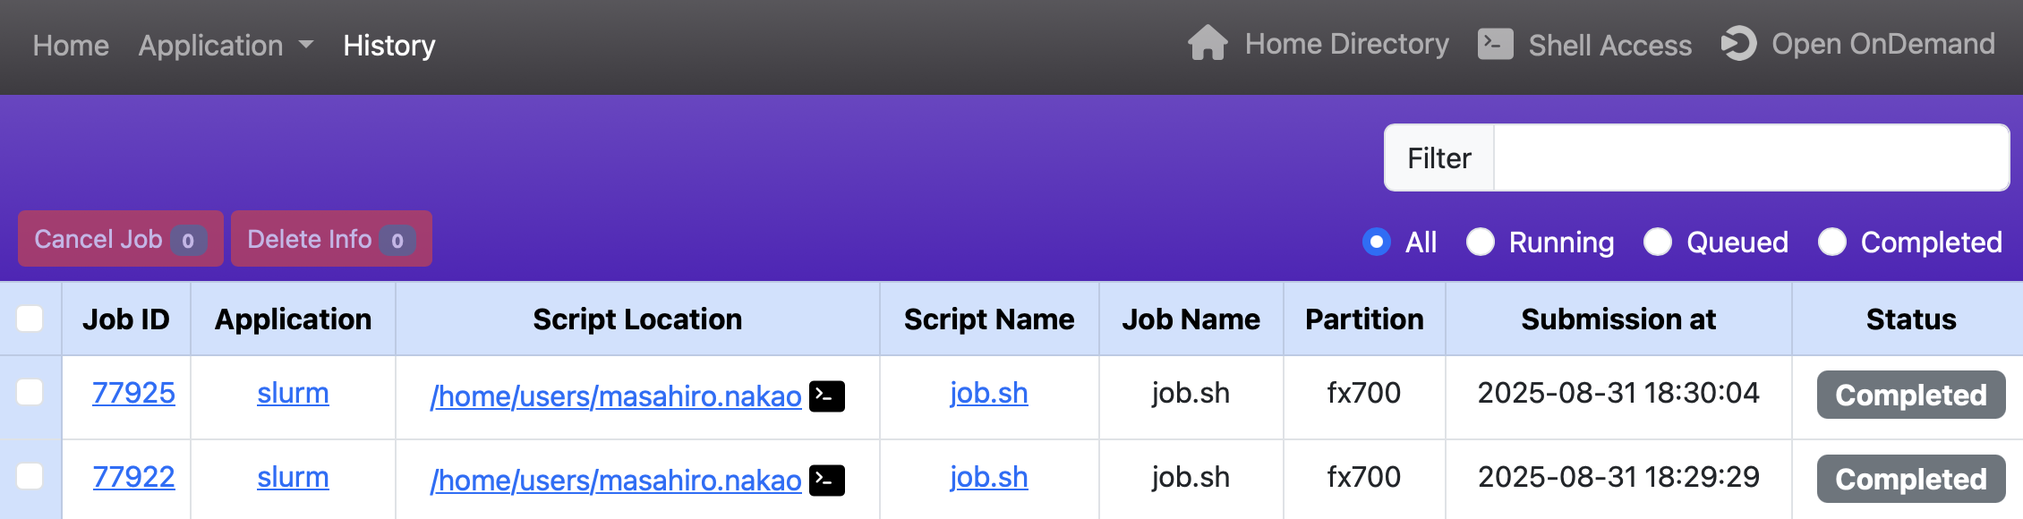
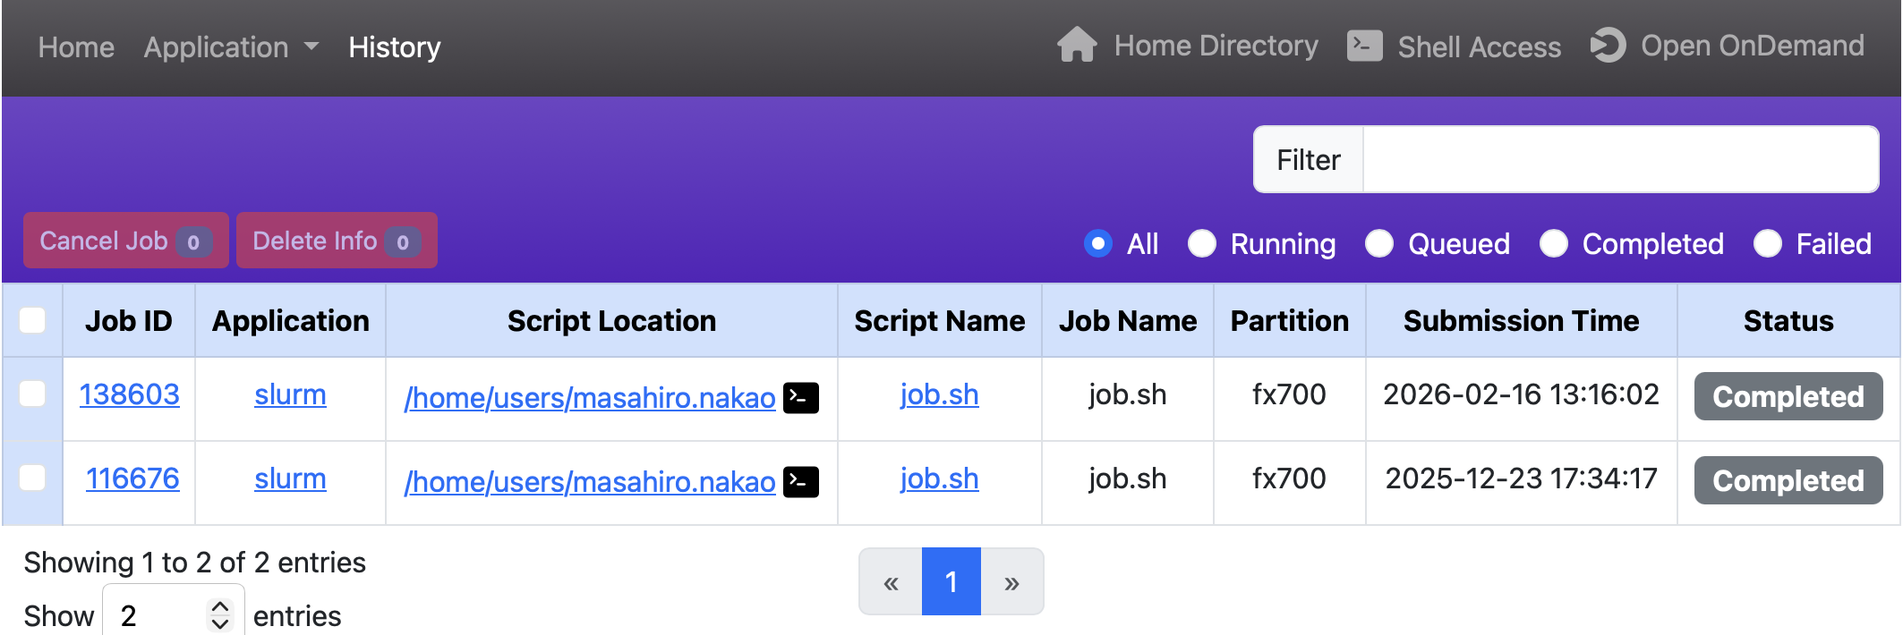
Edit manuals to descirbe Passenger Apps

diff --git a/docs/ood_ja.html b/docs/ood_ja.html
@@ -65,58 +65,43 @@
 	<tr><td><a target="_blank" rel="noopener noreferrer" href="http://www.xcrysden.org/">XCrySDen</a></td><td>結晶構造や分子構造などの可視化プログラム</td></tr>
       </table>
       <p>
-        例として、リモートデスクトップの利用方法を説明します。メニューバーの「Interactive Apps」から「Desktop」をクリックすると、計算リソースなどを入力するためのWebフォームが表示されます。入力後に「Launch」をクリックすると、R-CCSクラウドにジョブが投入されます。
+        例として、Desktopの利用方法を説明します。メニューバーの「Interactive Apps」から「Desktop」をクリックすると、計算リソースなどを入力するためのWebフォームが表示されます。入力後に「Launch」をクリックすると、R-CCSクラウドにジョブが投入されます。
       </p>
       <img width="400" alt="Webform of Remote Desktop" src="img/remote_desktop_webform.png">
       <p>
-        ジョブ投入直後は、右上に「Queued」と記述された画面が表示されます。これは、ジョブは実行待ちであることを表しています。ジョブが計算ノードで起動すると「Running」という表示に変わり、「Launch Desktop」というボタンが表示されます。「Commpression（圧縮レベル）と「Image Quality（画質レベル）」に適当な値を設定して、「Launch Desktop」のボタンをクリックすると、リモートデスクトップがWebブラウザに表示されます。
+        ジョブ投入直後は、右上に「Queued」と記述された画面が表示されます。これは、ジョブは実行待ちであることを表しています。ジョブが計算ノードで起動すると「Running」という表示に変わり、「Launch Desktop」というボタンが表示されます。「Commpression（圧縮レベル）と「Image Quality（画質レベル）」に適当な値を設定して、「Launch Desktop」のボタンをクリックすると、DesktopがWebブラウザに表示されます。
       </p>
-      <p>「View Only (Share-able Link) 」ボタンをクリックすると、ミラーリングされたリモートデスクトップが新しいタブで開きます。ミラーリングされた画面は操作できません。このタブのURLをメール等で送信することで、画面共有を行うことができます（R-CCSクラウドにアカウントを持っているユーザ間でのみ画面共有が可能です）。
+      <p>「View Only (Share-able Link) 」ボタンをクリックすると、ミラーリングされたDesktopが新しいタブで開きます。ミラーリングされた画面は操作できません。このタブのURLをメール等で送信することで、画面共有を行うことができます（R-CCSクラウドにアカウントを持っているユーザ間でのみ画面共有が可能です）。
       </p>
       <img width="600" alt="Running Status" src="img/remote_desktop_running.png"><p></p>
       <img width="600" alt="Remote Desktop" src="img/remote_desktop.png">
-      <p>リモートデスクトップを終了させたい場合は、下記の手順のどれかを行ってください。Webブラウザを閉じるだけでは終了されないことに注意してください。</p>
+      <p>Desktopを終了させたい場合は、下記の手順のどれかを行ってください。Webブラウザを閉じるだけでは終了されないことに注意してください。</p>
       <ul>
         <li>2つ前の画像の「Delete」ボタンをクリックする。</li>
         <li>メニューバーの「My Interactive Sessions」をクリックし、該当のジョブの「Delete」ボタンをクリックする。</li>
-        <li>リモートデスクトップの左上の「Applications」から「Log Out」をクリックする。</li>
+        <li>Desktopの左上の「Applications」から「Log Out」をクリックする。</li>
       </ul>
 
-      <h3>4.2. バッチジョブ</h3>
+      <h3>4.2. Passengerアプリケーション</h3>
       <p>
-        バッチジョブとは、ジョブスケジューラによって非対話的に実行される計算タスクのことです。バッチジョブはシェルスクリプトで記述され、必要な計算資源（たとえばノード数や最大実行時間など）は、ジョブスケジューラのディレクティブ（例：<code>#SBATCH -N 4</code>）を用いて指定します。R-CCSクラウドOpen OnDemandでは、Open OnDemand上で動作するアプリケーションである<a target="_blank" href="https://github.com/RIKEN-RCCS/OpenComposer/">Open Composer</a>を利用しており、簡易にバッチジョブの投入と管理を行うことができます。
+	Passengerアプリケーションとは、Open OnDemandサーバで動作するアプリケーションです。下記のアプリケーションを提供しています。
       </p>
-      <p>
-        Slurmのアイコンをクリックください。ジョブスクリプトを生成するためのWebフォームが表示されます。右上の「Script Location」はジョブスクリプトの保存場所、「Script Name」はジョブスクリプトのファイル名、「Job Name」はジョブの名前（省略可能）を指定します。左下はジョブに関する入力項目であり、入力すると右下のジョブスクリプトが自動更新されます。入力後に「Submit」をクリックすると、R-CCSクラウドにジョブが投入されます。
-      </p>
-      <img width="600" alt="Slurm" src="img/slurm.png">
-      <p>
-      ジョブが正常に投入されると上の方に表示される「History page」へのリンクをクリックします。
-      </p>
-      <img width="400" alt="Link to Histroy Page" src="img/link_to_history.png">
-      <p>
-      History pageでは、これまでに投入したジョブの履歴を閲覧することができます。表の各行は1つのジョブの情報を示しています。左上にある「Cancel Job」と「Delete Info」のボタンは、それぞれ「実行中のジョブのキャンセル」と「表からジョブの情報を削除する」ことを行います。それらの動作を行うためには、表の左端の列にある対応するチェックボックスをオンにします。
-      </p>
-      <p>
-      右上にあるテキストエリアとラジオボタンは、表に表示されるジョブをフィルタリングするために使用します。「Filter」に文字列を入力すると、その文字列に関係するジョブだけが表示されます。「All」、「Running」、「Queued」、「Completed」のラジオボタンはジョブの状態を表しており、その状態のジョブだけが表示されます。
-      </p>
-      <img width="600" alt="Histroy Page" src="img/history.png">
-      <p>
-      「Job ID」列のリンクをクリックすると、ジョブスケジューラから取得されたプロファイリング情報が表示されます。
-      </p>
-      <img width="400" alt="Job ID in Histroy Page" src="img/history_jobid.png">
-      <p>
-     「Application」列のリンクをクリックすると、そのアプリケーションページが開きます。
-      <p>
-      「Script Location」列のリンクをクリックすると、Open OnDemandの<a href="#file">Home Directory</a>が起動します。また、その横のターミナルアイコンをクリックすると、Open OnDemandの<a href="#shell">Login Node</a>が起動します。
-      </p>
-      <p>
-      「Script Name」列のリンクをクリックすると、送信されたシェルスクリプトの内容を表示するウィンドウが開きます。そのウィンドウの「Load Parameters」ボタンをクリックすると、パラメータが読み込まれたアプリケーションのページが開きます。
-      </p>
-      <img width="400" alt="Load Parameters" src="img/history_load_parameters.png">
+      <table class="table">
+        <tr><th>名前</th><th>説明</th></tr>
+	<tr><td><a href="#active">Active Jobs</a></td><td>ジョブのモニタリング</td></tr>
+	<tr><td><a href="#home">Home Directory</a></td><td>ファイル操作</td></tr>
+	<tr><td><a href="#login">Login Node</a></td><td>ターミナル</td></tr>
+	<tr><td><a href="#ssh">SSH Public Key</a></td><td>SSH公開鍵の登録</td></tr>
+	<tr><td><a href="#slurm">Slurm</a></td><td>バッチジョブの作成と投入</td></tr>
+	<tr><td><a href="#system">System Status</a></td><td>クラスタの利用状況の確認</td></tr>
+      </table>
 
-      <h3 id="file">4.3. ファイル操作</h3>
-      <p>Home Directoryのアイコンをクリックしてください。ファイルの送受信・編集などを行えます。送受信可能な最大サイズは10GBです。</p>
+      <h4 id="active">4.2.1. Active Jobs</h4>
+      <p>ジョブの情報を閲覧や削除を行うことができます。「ID」の列の左側のボタンをクリックすると、ジョブ詳細情報を表示できます。「Actions」の列のボタンをクリックすると、ジョブの削除を行えます。</p>
+      <img width="600" alt="Active Jobs" src="img/activejobs.png">
+
+      <h4 id="home">4.2.2. Home Directory</h4>
+      <p>ファイルの送受信・編集などを行えます。送受信可能な最大サイズは10GBです。</p>
       <img width="600" alt="Home Directory" src="img/home_directory.png">
       <p>Home Directoryの各機能は下記の通りです。個別のファイルやディレクトリに対する操作は「3点＋下三角」のメニューから行えます。</p>
       <table class="table">
@@ -148,9 +133,52 @@
       <p>メニューバーの「Passenger Apps」にあるパスをクリックすると、そのパスを起点としたHome Directoryが起動します。</p>
       <img width="200" alt="Click to Home Directory" src="img/home_directory_click.png">
       <p>
-      <a target="_blank" href="https://rclone.org">Rclone</a>を用いたクラウドストレージに対するファイルの操作も可能です。Rcloneの設定を行うには、リモートデスクトップを起動し、そのターミナルから<code>rclone</code>もしくは<code>rclone-browser</code>を実行します。設定後にOpen OnDemandのメニューバーの「Help」&rarr; 「Restart Web Server」をクリックし、Home Directoryを起動すると、設定されたクラウドストレージにアクセスできます。なお、R-CCSクラウドヘルプデスクではRcloneの設定のサポートは行っておりませんのでご了承ください。
+      <a target="_blank" rel="noopener noreferrer" href="https://rclone.org">Rclone</a>を用いたクラウドストレージに対するファイルの操作も可能です。Rcloneの設定を行うには、対話アプリケーションのDesktopを起動し、そのターミナルから<code>rclone</code>もしくは<code>rclone-browser</code>を実行します。設定後にOpen OnDemandのメニューバーの「Help」&rarr; 「Restart Web Server」をクリックし、Home Directoryを起動すると、設定されたクラウドストレージにアクセスできます。なお、R-CCSクラウドヘルプデスクではRcloneの設定のサポートは行っておりませんのでご了承ください。
       </p>
+      
+      <h4 id="login">4.2.3. Login Node</h4>
+      <p>WebブラウザからログインノードにSSHアクセスし、コマンドラインインタフェースを用いた操作を行うことができます。</p>
+      <img width="600" alt="Terminal for Login Node" src="img/shell_access.png">
+      
+      <h4 id="ssh">4.2.4. SSH Public Key</h4>
+      <p><a target="_blank" rel="noopener noreferrer" href="index_ja.html#ssh">1.2. ターミナルソフトウェアの利用</a>を参照ください。</p>
+      
+      <h4 id="slurm">4.2.5. Slurm</h4>
+      <p>
+        バッチジョブの作成と投入を行えます。バッチジョブとは、ジョブスケジューラによって非対話的に実行される計算タスクのことです。バッチジョブはシェルスクリプトで記述され、必要な計算資源（たとえばノード数や最大実行時間など）は、ジョブスケジューラのディレクティブ（例：<code>#SBATCH -N 4</code>）を用いて指定します。R-CCSクラウドOpen OnDemandでは、Open OnDemand上で動作するアプリケーションである<a target="_blank" rel="noopener noreferrer" href="https://github.com/RIKEN-RCCS/OpenComposer/">Open Composer</a>を利用しており、簡易にバッチジョブの投入と管理を行うことができます。
+      </p>
+      <p>
+        右上の「Script Location」はジョブスクリプトの保存場所、「Script Name」はジョブスクリプトのファイル名、「Job Name」はジョブの名前（省略可能）を指定します。左下はジョブに関する入力項目であり、入力すると右下のジョブスクリプトが自動更新されます。入力後に「Submit」をクリックすると、R-CCSクラウドにジョブが投入されます。
+      </p>
+      <img width="600" alt="Slurm" src="img/slurm.png">
+      <p>
+      ジョブが正常に投入されると上の方に表示される「History page」へのリンクをクリックします。
+      </p>
+      <img width="400" alt="Link to Histroy Page" src="img/link_to_history.png">
+      <p>
+      History pageでは、これまでに投入したジョブの履歴を閲覧することができます。表の各行は1つのジョブの情報を示しています。左上にある「Cancel Job」と「Delete Info」のボタンは、それぞれ「実行中のジョブのキャンセル」と「表からジョブの情報を削除する」ことを行います。それらの動作を行うためには、表の左端の列にある対応するチェックボックスをオンにします。
+      </p>
+      <p>
+      右上にあるテキストエリアとラジオボタンは、表に表示されるジョブをフィルタリングするために使用します。「Filter」に文字列を入力すると、その文字列に関係するジョブだけが表示されます。「All」、「Running」、「Queued」、「Completed」、「Failed」のラジオボタンはジョブの状態を表しており、その状態のジョブだけが表示されます。
+      </p>
+      <img width="600" alt="Histroy Page" src="img/history.png">
+      <p>
+      「Job ID」列のリンクをクリックすると、ジョブスケジューラから取得されたプロファイリング情報が表示されます。
+      </p>
+      <img width="400" alt="Job ID in Histroy Page" src="img/history_jobid.png">
+      <p>
+     「Application」列のリンクをクリックすると、そのアプリケーションページが開きます。
+      <p>
+      「Script Location」列のリンクをクリックすると、Open OnDemandの<a href="#home">Home Directory</a>が起動します。また、その横のターミナルアイコンをクリックすると、Open OnDemandの<a href="#login">Login Node</a>が起動します。
+      </p>
+      <p>
+      「Script Name」列のリンクをクリックすると、送信されたシェルスクリプトの内容を表示するウィンドウが開きます。そのウィンドウの「Load Parameters」ボタンをクリックすると、パラメータが読み込まれたアプリケーションのページが開きます。
+      </p>
+      <img width="400" alt="Load Parameters" src="img/history_load_parameters.png">
 
+      <h4 id="system">4.2.6. System Status</h4>
+      <p>各パーティションの利用状況を閲覧できます。</p>
+      <img width="600" alt="Grafana" src="img/grafana.png">
       <!--
       <h3>3.4. HPCI共用ストレージ（準備中）</h3>
       <p>HPCI Shared Strageのアイコンをクリックください。<a href="https://www.hpci-office.jp">HPCI（High Performance Computing Infrastructure）</a>が提供するHPCI共用ストレージに対するファイル操作を行えます。本アプリケーションを利用するためには、<a href="https://elpis.hpci.nii.ac.jp/">JWT-SERVER</a>からパスフレーズを事前に発行しておく必要があります。</p>
@@ -162,20 +190,7 @@
       <img width="600" alt="GakuNin RDM" src="img/grdm.png">
       <p>「Mount Path」にはR-CCSクラウド側のファイルシステムのマウントパス（例：<code>/home/rccs-aot/a00000/abc</code>）を、「RDM Node ID」はGakuNin RDMのプロジェクトのURL（<code>https://rdm.nii.ac.jp/xxx/</code>）の<code>xxx</code>の箇所を、「ROM Token」はGakuNin RDMのパーソナルアクセストークンを入力した後、「mount」ボタンをクリックください。</p>
      -->
-      <h3 id="shell">4.4. ターミナル</h3>
-      <p>Login Nodeのアイコンをクリックください。WebブラウザからログインノードにSSHアクセスし、コマンドラインインタフェースを用いた操作を行うことができます。</p>
-      <img width="600" alt="Terminal for Login Node" src="img/shell_access.png">
 
-      <h3>4.5. ジョブのモニタリング</h3>
-      <p>Active Jobsのアイコンをクリックください。ジョブの情報を閲覧や削除を行うことができます。「ID」の列の左側のボタンをクリックすると、ジョブ詳細情報を表示できます。「Actions」の列のボタンをクリックすると、ジョブの削除を行えます。</p>
-      <img width="600" alt="Active Jobs" src="img/activejobs.png">
-
-      <h3>4.6. クラスタの利用状況</h3>
-      <p>System Statusのアイコンをクリックください。各パーティションの利用状況を閲覧できます。</p>
-      <img width="600" alt="Grafana" src="img/grafana.png">
-
-      <h3>4.7. SSH公開鍵の登録</h3>
-      <p>SSH Public Keyのアイコンをクリックください。詳細は、<a href="index_ja.html#ssh">1.2. ターミナルソフトウェアの利用</a>を参照ください。</p>
     </main>
   </div>
 

diff --git a/docs/ood.html b/docs/ood.html
@@ -67,77 +67,50 @@
 	<tr><td><a target="_blank" rel="noopener noreferrer" href="http://www.xcrysden.org/">XCrySDen</a></td><td>Visualization program for crystal and molecular structures</td></tr>
       </table>
       <p>
-        For example, to use the remote desktop: click the "Desktop" in "Interactive Apps", a web form will appear to enter compute resources and other information. After entering the information, click "Launch" to submit a job to the R-CCS Cloud.
+        For example, to use the Desktop: click the "Desktop" in "Interactive Apps", a web form will appear to enter compute resources and other information. After entering the information, click "Launch" to submit a job to the R-CCS Cloud.
       </p>
-      <img width="400" alt="Webform of Remote Desktop" src="img/remote_desktop_webform.png">
+      <img width="400" alt="Webform of Desktop" src="img/remote_desktop_webform.png">
       <p>
         Immediately after job submission, a screen showing "Queued" will appear, meaning the job is waiting.  
         When the job starts on a compute node, the display changes to "Running" and a "Launch Desktop" button appears.  
-        Set appropriate values for "Compression" and "Image Quality", then click "Launch Desktop" to open the remote desktop in your browser.
+        Set appropriate values for "Compression" and "Image Quality", then click "Launch Desktop" to open the Desktop in your browser.
       </p>
       <p>
-        Clicking the "View Only (Share-able Link)" button opens a mirrored remote desktop in a new tab.  
+        Clicking the "View Only (Share-able Link)" button opens a mirrored desktop in a new tab.  
         The mirrored screen cannot be operated.  
         You can share the screen by sending the URL via email, but only among users who have an account on the R-CCS Cloud.
       </p>
       <img width="600" alt="Running Status" src="img/remote_desktop_running.png"><p></p>
       <img width="600" alt="Remote Desktop" src="img/remote_desktop.png">
       <p>
-        To terminate the remote desktop, do one of the following. Simply closing the browser will not terminate it:
+        To terminate the desktop, do one of the following. Simply closing the browser will not terminate it:
       </p>
       <ul>
         <li>Click the "Delete" button (as shown in the second previous image).</li>
         <li>Click "My Interactive Sessions" in the menu bar and then click "Delete" for the relevant job.</li>
-        <li>From "Applications" at the top left of the remote desktop, click "Log Out".</li>
+        <li>From "Applications" at the top left of the desktop, click "Log Out".</li>
       </ul>
 
-      <h3>4.2. Batch Jobs</h3>
+      <h3>4.2. Passenger Application</h3>
       <p>
-        A batch job is a compute task executed non-interactively by the job scheduler.  
-        Batch jobs are written as shell scripts, and required resources (e.g., number of nodes, maximum runtime) are specified with scheduler directives (e.g., <code>#SBATCH -N 4</code>).  
-        In R-CCS Cloud Open OnDemand, the application <a target="_blank" href="https://github.com/RIKEN-RCCS/OpenComposer/">Open Composer</a> is provided, making it easy to submit and manage batch jobs.
+	Passenger applications are applications that run on the Open OnDemand server. We provide the following applications.	
       </p>
-      <p>
-        Click the Slurm icon. A web form for generating job scripts will appear.  
-        At the top right, "Script Location" specifies where the script will be saved, "Script Name" is the filename, and "Job Name" is the job name (optional).  
-        At the bottom left are job input items; filling them updates the job script on the bottom right automatically.  
-        After entering, click "Submit" to submit the job to the R-CCS Cloud.
-      </p>
-      <img width="600" alt="Slurm" src="img/slurm.png">
-      <p>
-        Once the job is successfully submitted, click the link to the "History page" shown at the top.
-      </p>
-      <img width="400" alt="Link to History Page" src="img/link_to_history.png">
-      <p>
-        On the History page, you can view the history of submitted jobs. Each row shows information for one job.  
-        The "Cancel Job" button cancels a running job, and the "Delete Info" button removes job info from the table.  
-        To perform these actions, check the corresponding checkbox in the leftmost column.
-      </p>
-      <p>
-        The text area and radio buttons at the top right filter jobs displayed in the table.  
-        Entering a string in "Filter" shows only jobs related to that string.  
-        Radio buttons "All", "Running", "Queued", and "Completed" filter jobs by status.
-      </p>
-      <img width="600" alt="History Page" src="img/history.png">
-      <p>
-        Clicking a link in the "Job ID" column displays profiling information retrieved from the scheduler.
-      </p>
-      <img width="400" alt="Job ID in History Page" src="img/history_jobid.png">
-      <p>
-        Clicking a link in the "Application" column opens the application page.
-      </p>
-      <p>
-        Clicking a link in the "Script Location" column opens Open OnDemand’s <a href="#file">Home Directory</a>.  
-        Clicking the adjacent terminal icon opens <a href="#shell">Login Node</a>.
-      </p>
-      <p>
-        Clicking a link in the "Script Name" column opens a window showing the submitted script.  
-        Clicking the "Load Parameters" button in that window opens the application page with the parameters preloaded.
-      </p>
-      <img width="400" alt="Load Parameters" src="img/history_load_parameters.png">
-
-      <h3 id="file">4.3. File Operations</h3>
-      <p>Click the Home Directory icon to transfer and edit files. The maximum file size for transfer is 10GB.</p>
+      <table class="table">
+        <tr><th>Name</th><th>Description</th></tr>
+	<tr><td><a href="#active">Active Jobs</a></td><td>Monitoring Jobs</td></tr>
+	<tr><td><a href="#home">Home Directory</a></td><td>File Operations</td></tr>
+	<tr><td><a href="#login">Login Node</a></td><td>Terminal</td></tr>
+	<tr><td><a href="#ssh">SSH Public Key</a></td><td>Registering an SSH public key</td></tr>
+	<tr><td><a href="#slurm">Slurm</a></td><td>Creating and submitting a batch job</td></tr>
+	<tr><td><a href="#system">System Status</a></td><td>Check usage status</td></tr>
+      </table>
+ 
+      <h4 id="active">4.2.1. Active Jobs</h4>
+      <p>You can view and delete job information. Click the button left of "ID" to view details, and the "Actions" column button to cancel a job.</p>
+      <img width="600" alt="Active Jobs" src="img/activejobs.png">
+ 
+      <h4 id="home">4.2.2. Home Directory</h4>
+      <p>You can send, receive, and edit files. The maximum file size for transfer is 10GB.</p>
       <img width="600" alt="Home Directory" src="img/home_directory.png">
       <p>The functions of the Home Directory are as follows. Operations on individual files or directories can be performed from the "three-dot + triangle" menu.</p>
       <table class="table">
@@ -169,26 +142,67 @@
       <p>Clicking a path in "Passenger Apps" launches the Home Directory starting from that path.</p>
       <img width="200" alt="Click to Home Directory" src="img/home_directory_click.png">
       <p>
-        File operations with cloud storage via <a target="_blank" href="https://rclone.org">Rclone</a> are also supported.  
-        To configure Rclone, start a remote desktop, open a terminal, and run <code>rclone</code> or <code>rclone-browser</code>.  
+        File operations with cloud storage via <a target="_blank" rel="noopener noreferrer" href="https://rclone.org">Rclone</a> are also supported.  
+        To configure Rclone, start a Desktop, open a terminal, and run <code>rclone</code> or <code>rclone-browser</code>.  
         After configuration, click "Help → Restart Web Server" in Open OnDemand’s menu bar, then open the Home Directory to access the configured storage.  
         Note that the R-CCS Cloud Help Desk does not provide support for Rclone configuration.
       </p>
 
-      <h3 id="shell">4.4. Terminal for Login Node</h3>
-      <p>Click the Login Node icon. You can SSH into the login node via browser and operate with a command-line interface.</p>
+      <h4 id="login">4.2.3 Login Node</h4>
+      <p>You can SSH into the login node via browser and operate with a command-line interface.</p>
       <img width="600" alt="Terminal for Login Node" src="img/shell_access.png">
 
-      <h3>4.5. Job Monitoring</h3>
-      <p>Click the Active Jobs icon. You can view and delete job information. Click the button left of "ID" to view details, and the "Actions" column button to cancel a job.</p>
-      <img width="600" alt="Active Jobs" src="img/activejobs.png">
+      <h4 id="ssh">4.2.4. SSH Public Key</h4>
+      <p>See <a href="index.html#ssh">1.2. Using Terminal Software</a>.</p>
+      
+      <h4 id="slurm">4.2.5. Slurm</h4>
+      <p>
+	You can create and submit batch jobs.
+        A batch job is a compute task executed non-interactively by the job scheduler.  
+        Batch jobs are written as shell scripts, and required resources (e.g., number of nodes, maximum runtime) are specified with scheduler directives (e.g., <code>#SBATCH -N 4</code>).  
+        In R-CCS Cloud Open OnDemand, the application <a target="_blank" rel="noopener noreferrer" href="https://github.com/RIKEN-RCCS/OpenComposer/">Open Composer</a> is provided, making it easy to submit and manage batch jobs.
+      </p>
+      <p>
+        At the top right, "Script Location" specifies where the script will be saved, "Script Name" is the filename, and "Job Name" is the job name (optional).  
+        At the bottom left are job input items; filling them updates the job script on the bottom right automatically.  
+        After entering, click "Submit" to submit the job to the R-CCS Cloud.
+      </p>
+      <img width="600" alt="Slurm" src="img/slurm.png">
+      <p>
+        Once the job is successfully submitted, click the link to the "History page" shown at the top.
+      </p>
+      <img width="400" alt="Link to History Page" src="img/link_to_history.png">
+      <p>
+        On the History page, you can view the history of submitted jobs. Each row shows information for one job.  
+        The "Cancel Job" button cancels a running job, and the "Delete Info" button removes job info from the table.  
+        To perform these actions, check the corresponding checkbox in the leftmost column.
+      </p>
+      <p>
+        The text area and radio buttons at the top right filter jobs displayed in the table.  
+        Entering a string in "Filter" shows only jobs related to that string.  
+        Radio buttons "All", "Running", "Queued", "Completed", and "Failed" filter jobs by status.
+      </p>
+      <img width="600" alt="History Page" src="img/history.png">
+      <p>
+        Clicking a link in the "Job ID" column displays profiling information retrieved from the scheduler.
+      </p>
+      <img width="400" alt="Job ID in History Page" src="img/history_jobid.png">
+      <p>
+        Clicking a link in the "Application" column opens the application page.
+      </p>
+      <p>
+        Clicking a link in the "Script Location" column opens Open OnDemand’s <a href="#home">Home Directory</a>.  
+        Clicking the adjacent terminal icon opens <a href="#login">Login Node</a>.
+      </p>
+      <p>
+        Clicking a link in the "Script Name" column opens a window showing the submitted script.  
+        Clicking the "Load Parameters" button in that window opens the application page with the parameters preloaded.
+      </p>
+      <img width="400" alt="Load Parameters" src="img/history_load_parameters.png">
 
-      <h3>4.6. Cluster Usage</h3>
-      <p>Click the System Status icon to view the usage status of each partition.</p>
+      <h4 id="system">4.2.6. System Status</h4>
+      <p>You can view the usage status of each partition.</p>
       <img width="600" alt="Grafana" src="img/grafana.png">
-
-      <h3>4.7. SSH Public Key Registration</h3>
-      <p>Click the SSH Public Key icon. For details, see <a href="index.html#ssh">1.2. Using Terminal Software</a>.</p>
     </main>
   </div>
 

diff --git a/docs/style.css b/docs/style.css
@@ -55,9 +55,17 @@ h3 {
   margin: 1rem 0 0 1rem;
   font-weight: 600;
 }
+h4 {
+  font-size: 1.25rem;
+  color: black;
+  border-left: 8px solid black;
+  padding-left: 0.5rem;
+  margin: 1rem 0 0 1rem;
+  font-weight: 600;
+}
 p {
   padding-left: 1rem;
-  margin: 0.5rem 0;
+  margin: 0.6rem 0;
   text-align: justify;
 }
 img {
